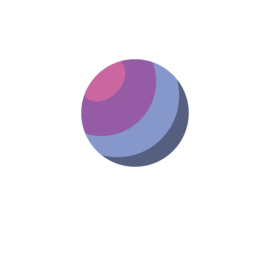
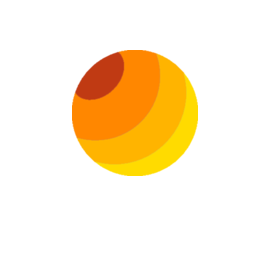
1.0

Changed region(s): [[0.2667, 0.1778, 0.7407, 0.6519]]

diff --git a/header.php b/header.php
@@ -6,10 +6,13 @@
     <!-- Links para iconos de distintos sitios, aplicaciones, etc-->
     <link rel="apple-touch-icon" sizes="180x180" href="<?php echo get_template_directory_uri();?>/apple-touch-icon.png">
     <link rel="icon" type="image/png" sizes="32x32" href="<?php echo get_template_directory_uri();?>/favicon-32x32.png">
+    <link rel="icon" type="image/png" sizes="194x194" href="<?php echo get_template_directory_uri();?>/favicon-194x194.png">
+    <link rel="icon" type="image/png" sizes="192x192" href="<?php echo get_template_directory_uri();?>/android-chrome-192x192.png">
     <link rel="icon" type="image/png" sizes="16x16" href="<?php echo get_template_directory_uri();?>/favicon-16x16.png">
     <link rel="manifest" href="<?php echo get_template_directory_uri();?>/site.webmanifest">
-    <link rel="mask-icon" href="<?php echo get_template_directory_uri();?>/safari-pinned-tab.svg" color="#5bbad5">
-    <meta name="msapplication-TileColor" content="#da532c">
+    <link rel="mask-icon" href="<?php echo get_template_directory_uri();?>/safari-pinned-tab.svg" color="#ff9400">
+    <meta name="msapplication-TileColor" content="#2d89ef">
+    <meta name="msapplication-TileImage" content="/mstile-144x144.png">
     <meta name="theme-color" content="#ffffff">
     <!---->
 

diff --git a/contacto.php b/contacto.php
@@ -2,6 +2,7 @@
 /**
  * Template Name: Pagina de Contacto
  **/
+get_header();
  ?>
     <style media="screen">
       @media screen and (max-width:800px) {
@@ -134,7 +135,7 @@
       }
     </style>
   <body id="#bodyContacto">
-    <?php get_header();
+    <?php
         get_template_part( 'menu');
     ?>
     <div class="content formulario">
@@ -161,7 +162,7 @@
       </section>
     </div>
     <div class="barraRoja">
-      <a style="text-decoration:none;" href="www.thinkincode.com.ar">
+      <a style="text-decoration:none;" href="thinkincode.com.ar">
         <h3 style="text-align:center;color:white;">Desarrollado con <i class="fa fa-heart"></i> por Thinco.</h3>
       </a>
     </div>
@@ -185,7 +186,7 @@
     /**creación de mensaje */
     $mensaje ="nombre del cliente: ".$nombre.". Correo: ".$correo.". Mensaje: ".$_POST['mensaje'];
     /**envio de correo */
-    mail('luchososa1990@gmail.com','consulta',$mensaje);
+    mail('contacto@nicobol.com','consulta',$mensaje);
   ?>
 </html>
 

diff --git a/tienda.php b/tienda.php
@@ -27,7 +27,7 @@ get_header();
     }
 </style>
 <body>
-    <?php get_header();
+    <?php
         get_template_part( 'menu');
     ?>
     <section class="contendedor">
